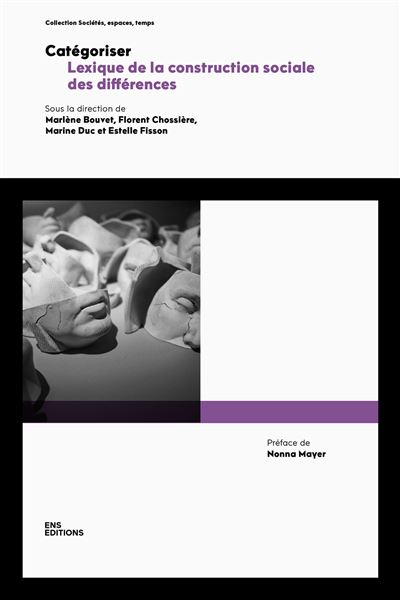
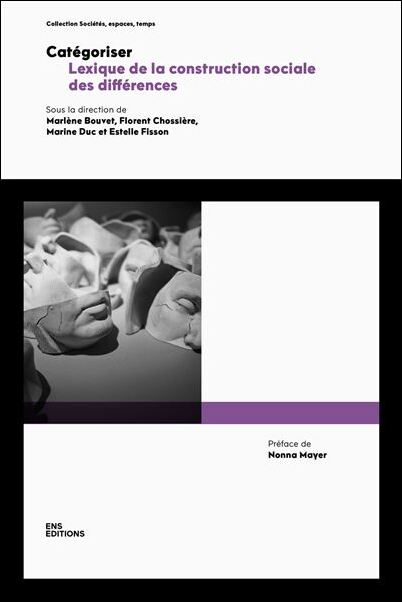
publications' images with borders better rendering of text introduced phd thesis as separate category in publications

diff --git a/_includes/archive-single.html b/_includes/archive-single.html
@@ -51,7 +51,7 @@
     {% if post.image %}
 	 <img style="padding-left: 20px" width="200px" align="right" src={{ post.image }}>
     {% endif %}
-    <p class="text-justify" itemprop="description">{{ post.excerpt }}</p>
+    <p class="text-justify" itemprop="description">{{ post.excerpt | markdownify | replace: '<p>', '<p class="text-justify" itemprop="description">' | replace: " ?", "&nbsp;?" | replace: " »", "&nbsp;»" | replace: "« ", "«&nbsp;"}}</p>
     
     {% if post.citation and post.paperurl and post.slidesurl %}
       <p><strong>{{ site.data.ui-text[site.locale].recommended_citation | default: "Recommended citation:" }}</strong> <em>{{ post.citation }}</em><br /><a href="{{ post.paperurl }}">{{ site.data.ui-text[site.locale].dwnl_paper | default: "Download Paper" }}</a> | <a href="{{ post.slidesurl }}">{{ site.data.ui-text[site.locale].dwnl_slides | default: "Download Slides" }}</a></p>

diff --git a/_publications/these.md b/_publications/these.md
@@ -1,0 +1,21 @@
+---
+title: "Réenchanter les déprimé.es. Sociologie de la thérapie en clinique privée"
+collection: publications
+category: thesis
+permalink: /publication/these
+
+authors: "Marlène Bouvet"
+venue: "Ecole Normale Supérieure de Lyon"
+date: 2023-06-06
+image: "../images/thesis.png"
+excerpt: "Ethnographie en clinique psychiatrique, cette recherche étudie les processus de production et de réception des Thérapies Cognitives et Comportementales, déployées dans l’hospitalisation volontaire alors que le public des institutions privées lucratives connaît une massification historique. 50 entretiens, 214 Dossiers Patients, une cinquantaine de groupes de parole et Réunions Soignants servent l’analyse du rapport à la thérapie de personnes de 18 à 94 ans, dont le spectre s’étend des classes populaires stabilisées aux classes supérieures intellectuelles et économiques. Cette thèse compare, via l’inculcation de techniques de gestion des émotions (EMDR, respiration, sismothérapie), le travail de transformation des dispositions relationnelles, affectives et introspectives d’individus sujets à la dépression, bipolarité, phobie sociale, épuisement professionnel, troubles dissociatifs.
+
+
+Du côté de la production des schèmes psy, les infirmier.es, psychiatres et psychologues opèrent une double démarche : psychologisation et biologisation des trajectoires sociales, et régulation compassionnelle des émotions par des gestes, paroles et techniques de consolation (« réassurance »). Leur « sens social » détermine leur façon de catégoriser les malheurs sociaux, d’objectiver la forme et les causes des déviances émotionnelles, et de choisir le « mot juste » dans les pratiques conversationnelles de care. Empruntant fortement à la « forme scolaire », ces professionnel.les prescrivent un travail de rectification des sentiments et prennent le parti des individus dans la renégociation de leurs relations professionnelles et affectives. Ce travail revêt une dimension paradoxale. D’une part, il pointe des « schémas de personnalité inadaptés », invisibilisant le social, rendant les individus responsables de leur destinée, leurs déboires et l’issue de la thérapie. Les violences sexuelles, le « burn out », l’expérience scolaire douloureuse des classes populaires, le travail domestique sont retraduits en « traumas » individuels. Mais d’autre part, via l’insistance sur les déterminants cérébraux et nerveux du « stress », les soignant.es légitiment un « statut de malade » contesté à l’extérieur, attribuent souvent un « statut de victime » et redéfinissent de façon moins élitiste les représentations du déclassement social. Les professionnel.les du psychisme connaissant des évolutions démographiques (féminisation, diversification des sexualités), leurs dispositions professionnelles sexuées les rendent perméables aux discours médiatiques sur la domination de genre (#MeToo).
+
+
+Côté réception, cette enquête interroge les appropriations différenciées et inégales de la thérapie, analysant le rôle de la distance sociale soignant.es/patient.es dans le (dé)goût pour l’exercice. Elle saisit la thérapie comme un dispositif culturel et une relation sociale, entre rapports sociaux – de classe, genre, âge, appartenance socioethnique – et ajustements réciproques. Elle mobilise le concept d’« habitus compatibles » pour examiner, de façon dynamique, les conditions sociales de son efficacité symbolique. Derrière le « feeling » spontané entre patient.es et soignant.es, les dispositions scolaires et culturelles engagent des adhésions et résistances sélectives aux schèmes psy. A travers les concepts de « dispositions émotionnelles » et de « pluralité dispositionnelle », enjeux centraux du « travail sur l’autre » et du « travail sur soi », cinq études de cas mettent à l’épreuve l’hypothèse d’une transformation existentielle par le psychologique."
+
+citation: "Marlène Bouvet, « Réenchanter les déprimé.es. Sociologie de la thérapie en clinique privée », sous la direction de Christine Détrez. Thèse soutenue le 6 juin 2023 à l'Ecole Normale Supérieure de Lyon, devant un jury composé d'Isabelle Coutant, Christine Détrez, Muriel Darmon, Stanislas Morel et Olivier Schwartz."
+
+---
